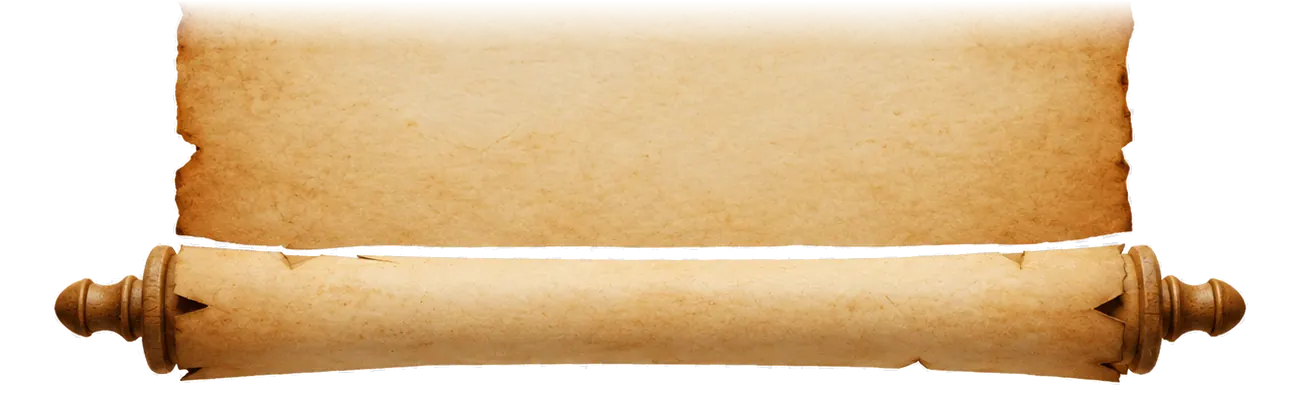
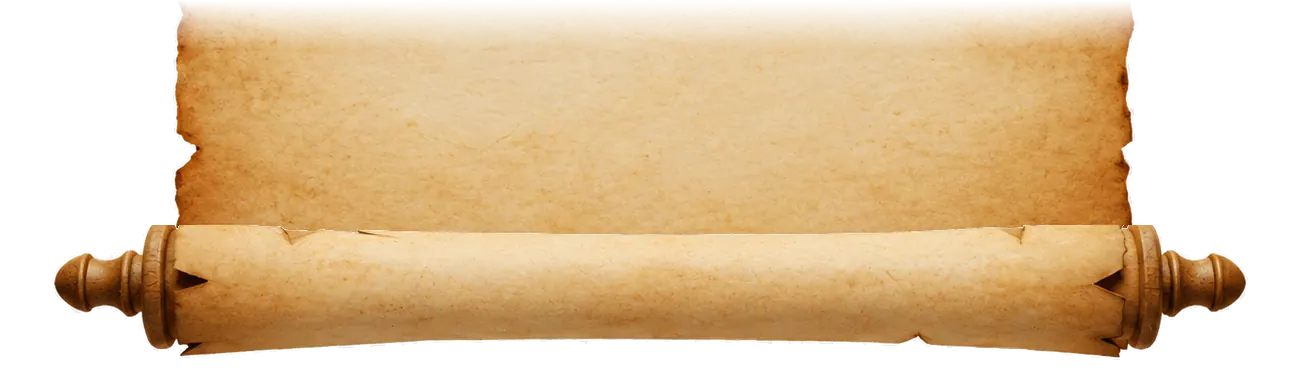
Parchemin : le papier sort directement des rouleaux, sans vide
Le papier est remonté sous le rouleau du haut et le rouleau du bas est
remonté sur le papier, pour supprimer les bandes vides.

Claude-Session: https://claude.ai/code/session_018T6BW8Kgcimu5gmU6nSQr4

diff --git a/css/style.css b/css/style.css
@@ -37,7 +37,7 @@ html, body {
    en trois : rouleau du haut, motif de papier répété verticalement, rouleau
    du bas. Tout est dimensionné en % de la largeur, donc le rouleau garde ses
    proportions quelle que soit la taille d'écran, et le papier s'allonge avec
-   le contenu sans se déformer. Image source : 1305 x 1206 px. */
+   le contenu sans se déformer. Image recomposée : 1305 x 1156 px. */
 .parchment-frame {
   position: relative;
   isolation: isolate;
@@ -46,7 +46,7 @@ html, body {
   --w: min(980px, 100vw - 3rem);
   width: var(--w);
   margin: 1.5rem auto;
-  aspect-ratio: 1305 / 1206; /* hauteur minimale : le rouleau entier */
+  aspect-ratio: 1305 / 1156; /* hauteur minimale : le rouleau entier */
   /* Le contenu reste sur le papier, entre les rouleaux et les bords déchirés. */
   padding: calc(var(--w) * 0.16) calc(var(--w) * 0.19) calc(var(--w) * 0.15);
 }
@@ -61,13 +61,13 @@ html, body {
     url("../images/parchemin-bas.webp") center bottom / 100% auto no-repeat;
   pointer-events: none;
 }
-/* Papier du milieu : commence ligne 420 et s'arrête ligne 850
+/* Papier du milieu : commence ligne 395 et s'arrête ligne 825
    (les marges en % se calculent sur la largeur, comme les images). */
 .parchment-frame::after {
   content: "";
   position: absolute;
   inset: 0;
-  margin: calc(420% / 13.05) 0 calc(356% / 13.05);
+  margin: calc(395% / 13.05) 0 calc(331% / 13.05);
   z-index: -2;
   background: url("../images/parchemin-milieu.webp") center top / 100% auto repeat-y;
   pointer-events: none;

diff --git a/tools/parchemin/split.py b/tools/parchemin/split.py
@@ -2,11 +2,27 @@ import sys
 from PIL import Image
 import numpy as np
 src, outdir = sys.argv[1], sys.argv[2]
-a = np.asarray(Image.open(src).convert('RGBA')).astype(float)
-H = a.shape[0]
-TOP_END, TOP_FADE = 460, 40      # haut : lignes 0..460, fondu sur les 40 dernières
-MID, MID_LEN, K = 420, 300, 60   # motif : lignes 420..720, raccord sur 60 lignes
-BOT_START, BOT_FADE = 800, 50    # bas : lignes 800..fin, fondu sur les 50 premières
+c = np.asarray(Image.open(src).convert('RGBA')).astype(float)
+
+# Raccord rouleaux / papier : dans l'image d'origine, un vide sépare le papier
+# des rouleaux. On remonte le papier de 25 px et le rouleau du bas de 50 px :
+# les rouleaux (dessinés par-dessus) recouvrent alors les bords du papier.
+TOP_ROLL_END, BOT_ROLL_START, DT, DB = 154, 1050, 25, 25
+H = c.shape[0] - DT - DB
+a = np.zeros((H,) + c.shape[1:])
+def over(dst, src_rows, y):
+    d = dst[y:y+len(src_rows)]
+    sa, da = src_rows[..., 3:] / 255, d[..., 3:] / 255
+    oa = sa + da * (1 - sa)
+    d[..., :3] = (src_rows[..., :3] * sa + d[..., :3] * da * (1 - sa)) / np.maximum(oa, 1e-6)
+    d[..., 3:] = oa * 255
+paper = c[TOP_ROLL_END:BOT_ROLL_START]
+a[TOP_ROLL_END-DT:BOT_ROLL_START-DT] = paper
+over(a, c[:TOP_ROLL_END], 0)
+over(a, c[BOT_ROLL_START:], BOT_ROLL_START - DT - DB)
+TOP_END, TOP_FADE = 435, 40      # haut : lignes 0..435, fondu sur les 40 dernières
+MID, MID_LEN, K = 395, 300, 60   # motif : lignes 395..695, raccord sur 60 lignes
+BOT_START, BOT_FADE = 775, 50    # bas : lignes 775..fin, fondu sur les 50 premières
 
 top = a[:TOP_END].copy()
 top[TOP_END-TOP_FADE:, :, 3] *= np.linspace(1, 0, TOP_FADE)[:, None]
